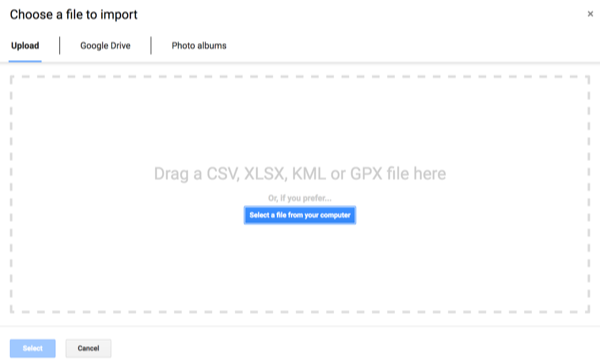
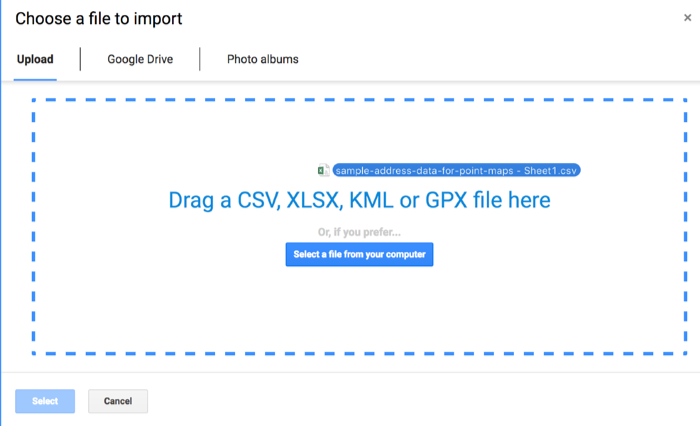
updated rate and mymaps

diff --git a/map/mymaps/README.md b/map/mymaps/README.md
@@ -1,38 +1,67 @@
 # Point Map with Google My Maps
-*By [Stacy Lam and Jack Dougherty](../../introduction/who.md), last updated February 5, 2017*
+*By [Stacy Lam and Jack Dougherty](../../introduction/who.md), last updated February 6, 2017*
 
 ## Try It
-Explore this interactive point map, created with the free Google My Maps (https://www.google.com/maps).
+Explore the interactive point map below, or <a href="https://drive.google.com/open?id=1OPrulm2ISYUb990DJOCoYlt_sWc">view the full-screen version</a>,created with the Google My Maps (https://www.google.com/maps).
 
-<iframe src="https://www.google.com/maps/d/u/0/embed?mid=1OPrulm2ISYUb990DJOCoYlt_sWc" width="640" height="480"></iframe>View <a href="https://drive.google.com/open?id=1OPrulm2ISYUb990DJOCoYlt_sWc">Google My Maps demo map in a full-screen map</a>
+<iframe src="https://www.google.com/maps/d/u/0/embed?mid=1OPrulm2ISYUb990DJOCoYlt_sWc" width="90%" height="480"></iframe>
 
 ## Tool Review
 - Pros
-  - Easy-to learn mapping tool to import and style point, polyline, and polygon layers
-  - Collaborate through the Google Drive interface
+  - Easy-to learn free mapping tool to import and style point, polyline, and polygon layers and basemap layers
+  - Share and collaborate through the Google Drive platform
   - Geocoding error warning
 - Cons
+  - Limited options to customize map markers
   - Cannot easily create colored polygon maps from data values
   - Cannot extract geocoded data to migrate to another tool
 
 ## Step-by-Step Tutorial
 
-- Build a simple point map with sample data. Right-click > Save As this link to [sample address data in CSV format](../sample-address-data-for-point-maps.csv) to download to your computer.
+Let's build a simple point map with sample data, using Google My Maps (https://www.google.com/maps). Requires signing up for a free Google account.
 
-** TO DO **
-- insert more steps here
-- For questions, see Google My Maps Help Page https://support.google.com/mymaps/answer/3024396
--  To learn more, go to book chapter [Embed on Your Web](https://www.datavizforall.org/embed/).
+1) Right-click > Save As this link to [sample address data in CSV format](../sample-address-data-for-point-maps.csv), a generic spreadsheet format, and download it to your computer.
+
+2) Open Google My Maps in your browser https://www.google.com/maps
+
+3) Click the red + symbol to create a new map, which will be saved automatically to your Google Drive folder.
+
+![Image: Create a new map](mymaps-create-map.png)
+
+4) In the map layers area, click the blue Import link. Drag-and-drop the CSV address data file into the web interface to import it.
+
+![Image: Import a data layer](mymaps-import.png)
+
+![Image: Drag-and-drop data into My Maps](mymaps-choose-import.png)
+
+5) Choose columns to position your placements. Select "Address" for this sample data, then Continue.
+
+![Image: Choose columns to position placemarks ](mymaps-choose-position.png)
+
+6) Choose a column to title your markers. Select "Description" for this sample data, then Finish.
+
+![Image: Choose column to title markers](mymaps-choose-title.png)
+
+7) After My Maps uploads and geocodes your sample data, click Open Data Table to inspect the results.
+
+![Image: Open Data Table to inspect geocoding errors](mymaps-fix-errors.png)
+
+8) To style the map markers, click Individual Styles. In this sample data, you can select Group Places By > Style By > Group. This will color markers according to the three categories.
+
+![Animation: Style markers by group](mymaps-style-groups-640w.gif)
+
+9) To publish your map on the web, click Share, add a map title, change from Private to Public on the Web, so that anyone can view your map. Click Save and Done.
+
+![Image: Share link](mymaps-share.png)
+
+10) To embed the map on your own website, click the three vertical dots next to the map title for more options, and select Embed On My Site. The tool will generate an iframe code for you to copy. For next steps, go to the [Embed on Your Web](../../embed/readme.md) chapters in this book.
+
+![Image: Embed map on your site](mymaps-embed.png)
+
+Learn more at the Google My Maps Help Page https://support.google.com/mymaps/answer/3024396
 
 ## Video Tutorial
 {%youtube%}ZVIPn8dJeYM{%endyoutube%}
-
-{% footer %}
-{% endfooter %}
-
-
-
-
 
 {% footer %}
 {% endfooter %}

diff --git a/choose/rate/README.md b/choose/rate/README.md
@@ -1,7 +1,17 @@
 # Rate Three Simple Map Tools
-*by [Jack Dougherty, Stacy Lam, and David Tatem](../../introduction/who.md), last updated February 5, 2017*
+*by [Jack Dougherty, Stacy Lam, and David Tatem](../../introduction/who.md), last updated February 6, 2017*
 
-Let's test some criteria from the previous chapter by comparing three different tools, and reflecting on which factors are most important to you. Below are three drag-and-drop tools to transform a spreadsheet of address data into a simple interactive point map. Each tool can **geocode** address data by looking up a location (such as 500 Main Street, Hartford CT) in a large database, deciding on the best match, and converting this data into latitude and longitude coordinates (such as 41.762, -72.674).
+Let's explore criteria from the previous chapter by comparing three different tools, and reflecting on which factors you feel are most important when making decisions about your toolkit. We'll test three drag-and-drop tools to transform sample address data into a simple interactive point map.
+
+Each tool can **geocode** address data by looking up a location (such as 500 Main Street, Hartford CT) in a large database, deciding on the best match, and converting this data into latitude and longitude coordinates (such as 41.762, -72.674).
+
+For our sample data, we'll use this table of 9 locations in North America, with 3 intentional mistakes to test for geocoding errors.
+
+![Image: Sample address data screenshot](sample-address-screenshot.png)
+
+First, download the sample data. Right-click > Save As this [sample address data in CSV format](../sample-address-data-for-point-maps.csv), a general spreadsheet file format, and download it to your computer.
+
+Next, build a point map with the sample data, by following the tutorials for the three tools below.
 
 | Tool |  Step-by-step tutorial in this book |
 | :---- | :---- |
@@ -9,21 +19,11 @@ Let's test some criteria from the previous chapter by comparing three different 
 | [Google My Maps](http://google.com/mymaps) | [My Maps tutorial](../../map/mymaps/) |
 | [Carto Builder](http://carto.com) | [Carto tutorial](../../map/carto/) |
 
-Use each tool to build a map using the sample address data below. This simple spreadsheet lists 9 locations in North America, with 3 intentional mistakes to test for geocoding errors. Click the link to view the Google Sheet in your browser, then select File > Download as > CSV (comma-separated values), a generic table format that easily uploads into most data visualization tools.
-
-[sample-address-data-for-point-maps](https://docs.google.com/spreadsheets/d/1uFUwnbg57nPoWXN7iEibiigle25FrcGwBKZfehPHdTs)
-- Right-click the link above to open the Google Sheet in a new browser tab
-- File > Download As > Comma-separated values (CSV) to save to your computer
-
-Hint: If the Google Sheet link above is not accessible, then right-click > Save As this [sample address data link](../sample-address-data-for-point-maps.csv) to download the same file in CSV format.
-
-After following the three tutorials to build a point map with the same data, rate each tool (Batch Geo, My Maps, and Carto) on these selected criteria:
+Finally, rate your experience using each tool with these selected criteria:
 - Easy-to-learn: Which tool was the simplest for creating a basic point map?
 - Price: Which of these free tools provided the most services at no cost?
 - Customization: Which tool enabled you to modify the most details about your map?
 - Data Migration: Which tool most easily allowed you to import and export your data?
 - Error-friendly: Which tool geocoded most accurately or signaled possible errors?
 
-**[Enroll in our free online course](../../enroll/readme.md)** to compare your ratings to other students.
-
-Learn more:
+**Recommended: [Enroll in our free online course](../../enroll/readme.md)** to compare your ratings to other students.

diff --git a/map/batchgeo/README.md b/map/batchgeo/README.md
@@ -1,10 +1,10 @@
 # Simple Point Map with BatchGeo
-*By [Stacy Lam and Jack Dougherty](../../introduction/who.md), last updated January 22, 2017*
+*By [Stacy Lam and Jack Dougherty](../../introduction/who.md), last updated February 6, 2017*
 
 ## Try It
-Explore this interactive point map, created with the free version of BatchGeo (http://batchgeo.com).
+Explore the interactive point map below, or <a href="https://batchgeo.com/map/8bce6809ea555e48acac7d0bbf396c40">view the full-screen version</a>, created with BatchGeo (http://batchgeo.com).
 
-<p><iframe src="https://batchgeo.com/map/8bce6809ea555e48acac7d0bbf396c40" frameborder="0" width="90%" height="550" style="border:1px solid #aaa;"></iframe></p><p><small>View <a href="https://batchgeo.com/map/8bce6809ea555e48acac7d0bbf396c40">BatchGeo demo point map in a full screen map</a></small></p>
+<iframe src="https://batchgeo.com/map/8bce6809ea555e48acac7d0bbf396c40" frameborder="0" width="90%" height="550" style="border:1px solid #aaa;"></iframe>
 
 ## Tool Review
 - Pros:
@@ -17,17 +17,25 @@ Explore this interactive point map, created with the free version of BatchGeo (h
   - Free version cannot process more than 250 rows of data
   - Must manually disable advertisements on your free maps
   - Cannot extract geocoded data to migrate to another tool
-  - More advanced mapping features requires an expensive license
+  - More advanced mapping features require an expensive license
 
 ## Tutorial
 
-The free BatchGeo point map tool (http://batchgeo.com) is so easy that it barely needs a tutorial.
-- Build a simple point map with sample data. Right-click > Save As this link to [sample address data in CSV format](../sample-address-data-for-point-maps.csv) to download to your computer.
-- Copy and paste address data into the BatchGeo web interface, or drag-and-drop a spreadsheet file. Use the tool template if needed.
-- Click the Validate & Set Options button to review your data, or the Map Now button.
-- BatchGeo will attempt to geocode your address data and display an interactive point map. Colored markers include pop-up data windows.
-- Click the Save and Continue button. Add map title, select Public or Unlisted, and insert your email address.
-- BatchGeo emails you a link to edit your map, or embed the iframe code in your own website. To learn more, go to [Embed on Your Web](https://www.datavizforall.org/embed/), in this book.
+Let's build a simple point map with sample data. This tool is so easy that most readers probably will skip over this tutorial.
+
+1) Right-click > Save As this link to [sample address data in CSV format](../sample-address-data-for-point-maps.csv), a generic spreadsheet table, and download it to your computer.
+
+2) Open BatchGeo in your browser at http://batchgeo.com
+
+3) Drag-and-drop the address file into BatchGeo. Or, open the CSV file with any spreadsheet tool, then copy and paste the address data into the web interface. Or, use the BatchGeo template if needed.
+
+4) Click the Validate & Set Options button to review your data, or the Map Now button.
+
+5) BatchGeo will attempt to geocode your address data and display an interactive point map. Colored markers include pop-up data windows.
+
+6) Click the Save and Continue button. Add map title, select Public or Unlisted, and insert your email address.
+
+7) BatchGeo emails you a link to edit your map, or to embed the iframe code in your own website. To learn more, go to the [Embed on Your Web](../../embed/readme.md) chapters in this book.
 
 {% footer %}
 {% endfooter %}
